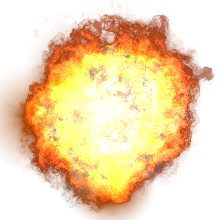
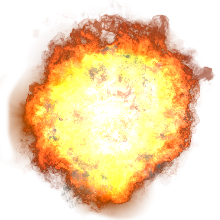
-Inclusao do Sprite da explosao completo.

Changed region(s): [[0.0, 0.3545, 0.0818, 0.7091], [0.4091, 0.9545, 0.5455, 1.0]]

diff --git a/SpaceInvaders/src/entities/ObjectType.java b/SpaceInvaders/src/entities/ObjectType.java
@@ -15,7 +15,11 @@ public enum ObjectType {
 	ENEMY5("alien5R.png,alien5L.png"), 
 	ROCKET("rocket.png"), 
 	BOMB("bomb.png"),
-	EXPLOSION("0,1,2,3,4,5,6,7");
+	EXPLOSION("explosion1.png,explosion2.png,explosion3.png,explosion4.png,explosion5.png,explosion6.png,explosion7.png,explosion8.png,explosion9.png,explosion10.png," +
+			"explosion11.png,explosion12.png,explosion13.png,explosion14.png,explosion15.png,explosion16.png,explosion17.png,explosion18.png,explosion19.png,explosion20.png," +
+			"explosion21.png,explosion22.png,explosion23.png,explosion24.png,explosion25.png,explosion26.png,explosion27.png,explosion28.png,explosion29.png,explosion30.png," +
+			"explosion31.png,explosion32.png,explosion33.png,explosion34.png,explosion35.png,explosion36.png,explosion37.png,explosion38.png,explosion39.png,explosion40.png," +
+			"explosion41.png,explosion42.png,explosion43.png,explosion44.png,explosion45.png");
 	
 	public final String location;
 	

diff --git a/SpaceInvaders/src/main/InvadersMain.java b/SpaceInvaders/src/main/InvadersMain.java
@@ -172,7 +172,7 @@ public class InvadersMain {
 		//Bomb x Player
 		if (aliens.collison(player, CollisionType.BOMB_X_PLAYER)) {
 			score.decreaseLives();
-			Effects.createExplosion(player.getX(), player.getY() - 10, 32, 32);
+			Effects.createExplosion(player.getX() - player.getWidth()/2, player.getY() - player.getHeight(), 64, 64);
 			//score.addWarnHit(player.getX(), player.getY() - 20, "Hit!!", getTime());
 		}
 

diff --git a/SpaceInvaders/src/objects/Enemy.java b/SpaceInvaders/src/objects/Enemy.java
@@ -76,7 +76,7 @@ public class Enemy extends AbstractFigther {
 	void hit() {
 		numOfHits--;
 		if (numOfHits == 0) {
-			Effects.createExplosion(x, y-32, 100, 100);
+			Effects.createExplosion(x-width, y-height, 100, 100);
 			isMoving = false;
 			setDX(0);
 			setDY(0);

diff --git a/SpaceInvaders/src/effects/Explosion.java b/SpaceInvaders/src/effects/Explosion.java
@@ -8,7 +8,7 @@ public class Explosion extends AbstractEntity {
 	public Explosion(double x, double y, double width, double height, ObjectType type) {
 		super(x, y, width, height, type);
 		
-		shift_rate = 100;
+		shift_rate = 20;
 		max_shift_times = 1;
 	}
 	
